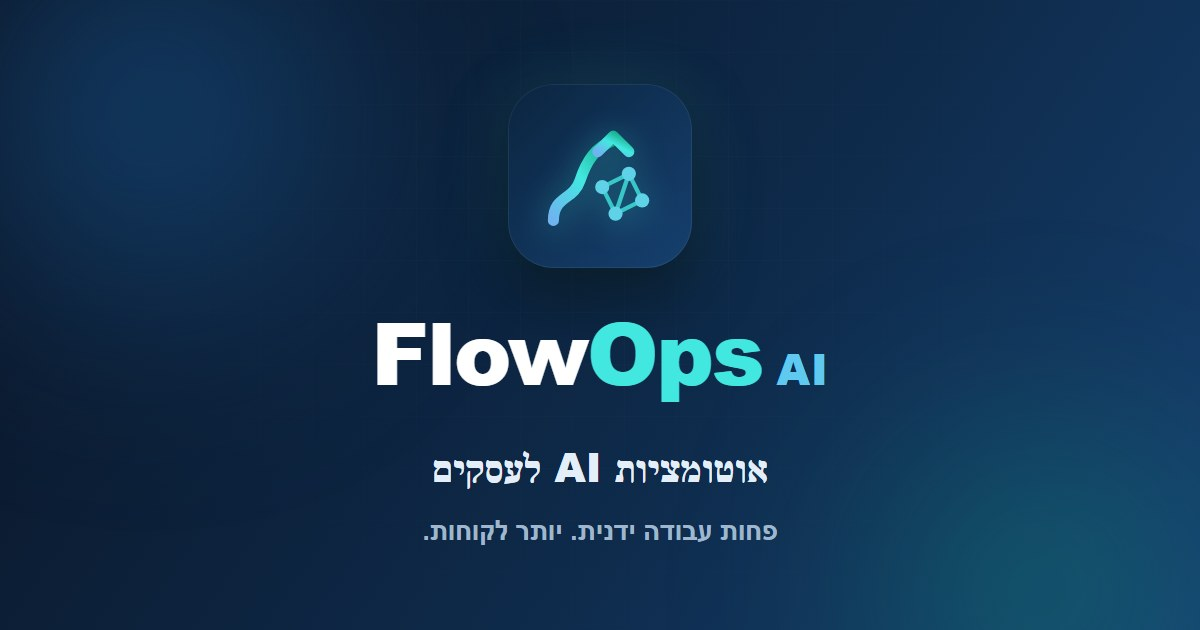
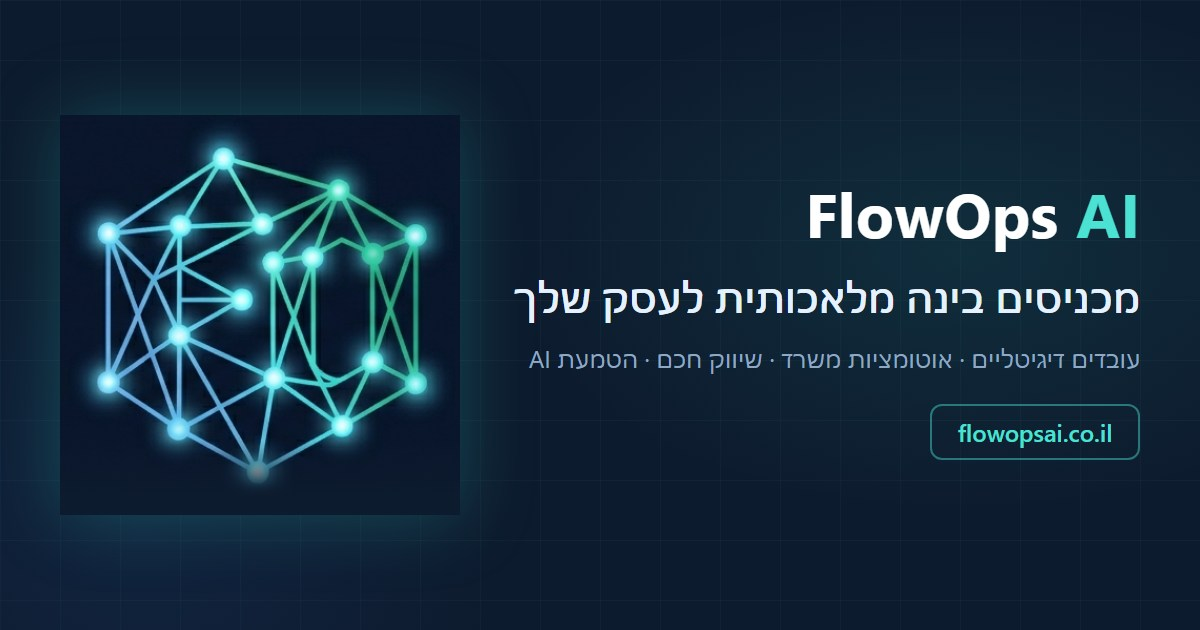
Reposition: FlowOps AI as full AI implementation for business
New umbrella message across all pages: digital workers, office
automation, digital presence and AI adoption. Chatbot demoted from
identity to one feature. New OG share image to match.

diff --git a/index.html b/index.html
@@ -3,19 +3,19 @@
 <head>
 <meta charset="UTF-8">
 <meta name="viewport" content="width=device-width, initial-scale=1.0">
-<title>FlowOps AI | אוטומציות AI לעסקים, חוסכים שעות, מרוויחים לקוחות</title>
-<meta name="description" content="FlowOps AI, בניית סוכני AI ואוטומציות לעסקים: מענה אוטומטי ללקוחות, חיבור CRM, דשבורדים. עשור ניסיון בניהול תפעול שמשולב ב-AI, מבינים עסק, לא רק קוד.">
-<meta property="og:title" content="FlowOps AI | אוטומציות AI לעסקים">
-<meta property="og:description" content="פחות עבודה ידנית. יותר לקוחות. סוכני AI ואוטומציות שעובדים בשבילכם 24/7.">
+<title>FlowOps AI | מכניסים בינה מלאכותית לעסק שלך — עובדים דיגיטליים, אוטומציות והטמעת AI</title>
+<meta name="description" content="FlowOps AI מכניסה בינה מלאכותית לעסק שלך: עובדים דיגיטליים שמבצעים עבודה מקצה לקצה, אוטומציות משרד, נוכחות דיגיטלית ושיווק, והטמעת AI בעסק. עשור ניסיון בניהול תפעול, מבינים עסק, לא רק קוד.">
+<meta property="og:title" content="FlowOps AI | מכניסים בינה מלאכותית לעסק שלך">
+<meta property="og:description" content="מהעובד הדיגיטלי הראשון ועד משרד שמנהל את עצמו. עובדים דיגיטליים, אוטומציות והטמעת AI לעסקים.">
 <meta property="og:type" content="website">
 <meta property="og:url" content="https://flowopsai.co.il/">
 <meta property="og:image" content="https://flowopsai.co.il/og-image-v2.jpg">
 <meta property="og:image:width" content="1200">
 <meta property="og:image:height" content="630">
-<meta property="og:image:alt" content="FlowOps AI, אוטומציות AI לעסקים">
+<meta property="og:image:alt" content="FlowOps AI, מכניסים בינה מלאכותית לעסק שלך">
 <meta name="twitter:card" content="summary_large_image">
-<meta name="twitter:title" content="FlowOps AI | אוטומציות AI לעסקים">
-<meta name="twitter:description" content="פחות עבודה ידנית. יותר לקוחות. סוכני AI ואוטומציות שעובדים בשבילכם 24/7.">
+<meta name="twitter:title" content="FlowOps AI | מכניסים בינה מלאכותית לעסק שלך">
+<meta name="twitter:description" content="מהעובד הדיגיטלי הראשון ועד משרד שמנהל את עצמו. עובדים דיגיטליים, אוטומציות והטמעת AI לעסקים.">
 <meta name="twitter:image" content="https://flowopsai.co.il/og-image-v2.jpg">
 <meta property="og:locale" content="he_IL">
 <meta property="og:site_name" content="FlowOps AI">
@@ -45,7 +45,7 @@ src="https://www.facebook.com/tr?id=YOUR_PIXEL_ID&ev=PageView&noscript=1"/></nos
   "@context":"https://schema.org",
   "@type":"ProfessionalService",
   "name":"FlowOps AI",
-  "description":"בניית סוכני AI ואוטומציות לעסקים, מענה אוטומטי ללקוחות, חיבור CRM, דשבורדים.",
+  "description":"הטמעת בינה מלאכותית בעסקים: עובדים דיגיטליים (סוכני AI), אוטומציות משרד, נוכחות דיגיטלית ושיווק, ייעוץ והדרכת AI.",
   "url":"https://flowopsai.co.il/",
   "telephone":"[phone redacted]",
   "email":"[email redacted]",
@@ -60,7 +60,7 @@ src="https://www.facebook.com/tr?id=YOUR_PIXEL_ID&ev=PageView&noscript=1"/></nos
   "@type":"FAQPage",
   "mainEntity":[
     {"@type":"Question","name":"כמה זמן לוקח להקים אוטומציה?","acceptedAnswer":{"@type":"Answer","text":"רוב הפרויקטים מוכנים תוך 1-3 שבועות, תלוי בהיקף. אוטומציה בודדת אפשר לפעמים להעמיד תוך ימים."}},
-    {"@type":"Question","name":"אני לא טכני, אצטרך לתחזק את זה לבד?","acceptedAnswer":{"@type":"Answer","text":"לא. אנחנו בונים, מפעילים ומדריכים אתכם לתפעול היומיומי. החודש הראשון כלול בחבילות הבוט, וממשיך בריטיינר חודשי מ-1,900 ₪, אפשר לבטל בכל רגע."}},
+    {"@type":"Question","name":"אני לא טכני, אצטרך לתחזק את זה לבד?","acceptedAnswer":{"@type":"Answer","text":"לא. אנחנו בונים, מפעילים ומדריכים אתכם לתפעול היומיומי. החודש הראשון כלול בחבילות העובד הדיגיטלי, וממשיך בריטיינר חודשי מ-1,900 ₪, אפשר לבטל בכל רגע."}},
     {"@type":"Question","name":"זה בטוח? מה עם המידע של הלקוחות שלי?","acceptedAnswer":{"@type":"Answer","text":"העבודה נעשית מול הכלים והחשבונות שלכם עם הרשאות מינימליות. המידע נשאר אצלכם, אנחנו לא שומרים נתוני לקוחות."}},
     {"@type":"Question","name":"באילו עסקים זה עובד הכי טוב?","acceptedAnswer":{"@type":"Answer","text":"כל עסק שמקבל פניות מלקוחות ומבצע תהליכים חוזרים: קליניקות, נדל\"ן, חנויות אונליין, משרדי שירות, סוכנויות ועוד."}}
   ]
@@ -639,11 +639,11 @@ src="https://www.facebook.com/tr?id=YOUR_PIXEL_ID&ev=PageView&noscript=1"/></nos
   <div class="wrap">
     <div class="hero-content" data-depth="0.05">
       <div class="badge"><span class="dot"></span> FlowOps AI · זמין לפרויקטים חדשים</div>
-      <h1><span class="h1-kw">אוטומציות AI לעסקים</span>פחות עבודה ידנית.<br><span>יותר לקוחות.</span></h1>
-      <p class="lead">FlowOps AI מפתחת לעסקים סוכני AI ואוטומציות שפועלים עבורכם מסביב לשעון, משיבים ללקוחות, מסננים לידים ומעדכנים מערכות. עשור ניסיון בניהול תפעול ושירות מאחורינו: קודם מבינים את העסק, ורק אז בונים את הטכנולוגיה.</p>
+      <h1><span class="h1-kw">הטמעת AI לעסקים</span>מכניסים בינה מלאכותית<br><span>לעסק שלך.</span></h1>
+      <p class="lead">מהעובד הדיגיטלי הראשון ועד משרד שמנהל את עצמו. FlowOps AI בונה לעסקים עובדים דיגיטליים שמבצעים עבודה מההתחלה עד הסוף, אוטומציות משרד, נוכחות דיגיטלית ושיווק, ומטמיעה AI בצוות שלכם. עשור ניסיון בניהול תפעול ושירות מאחורינו: קודם מבינים את העסק, ורק אז בונים את הטכנולוגיה.</p>
       <div class="hero-cta">
         <a href="#contact" class="btn">קבעו שיחת ייעוץ חינם</a>
-        <a href="demo.html" class="btn btn-ghost">נסו את הבוט בעצמכם — בלי הרשמה</a>
+        <a href="demo.html" class="btn btn-ghost">צפו בעובד דיגיטלי בפעולה — בלי הרשמה</a>
       </div>
       <div class="trust">
         <span><span class="ck">✓</span> <b>10 שנות</b> ניהול תפעול ושירות</span>
@@ -656,7 +656,7 @@ src="https://www.facebook.com/tr?id=YOUR_PIXEL_ID&ev=PageView&noscript=1"/></nos
         <div class="cm-head">
           <div class="cm-ava">🤖</div>
           <div class="cm-id">
-            <b>סוכן FlowOps</b>
+            <b>עובד דיגיטלי · FlowOps</b>
             <span class="cm-st"><i class="cm-on"></i> מחובר · עונה תוך שניות</span>
           </div>
         </div>
@@ -695,11 +695,11 @@ src="https://www.facebook.com/tr?id=YOUR_PIXEL_ID&ev=PageView&noscript=1"/></nos
   <div class="wrap">
     <div style="text-align:center"><span class="eyebrow reveal">האתגר</span></div>
     <h2 class="sec-title reveal">שלושה דברים שעולים לעסק שלכם כסף, בלי שתשימו לב</h2>
-    <p class="sec-sub reveal">אם אחד מהם מוכר לכם, אוטומציה אחת מחזירה את ההשקעה כבר בחודש הראשון</p>
+    <p class="sec-sub reveal">אם אחד מהם מוכר לכם, עובד דיגיטלי אחד מחזיר את ההשקעה כבר בחודש הראשון</p>
     <div class="pain-grid">
-      <div class="pain-card reveal"><h4>לידים שנופלים</h4><p>לקוח פונה, לא מקבל מענה מיידי, ועובר למתחרה. כל פנייה שנופלת היא הכנסה שנמחקת.</p></div>
+      <div class="pain-card reveal"><h4>כסף שכבר נמצא אצלכם בעסק</h4><p>לקוחות רדומים שלא חזרו, הצעות מחיר שלא קיבלו מעקב, ביטולים שמשאירים חורים ביומן. הכנסה שקיימת, ורק מחכה שמישהו ירים אותה.</p></div>
       <div class="pain-card reveal"><h4>שעות יקרות על עבודה ידנית</h4><p>העתקות, הקלדות ומעקבים ידניים גוזלים מכם ומהצוות שעות, על משימות שמערכת יכולה לבצע לבד.</p></div>
-      <div class="pain-card reveal"><h4>פניות מחוץ לשעות הפעילות</h4><p>לקוחות פונים בערב ובסופי שבוע. עד שחוזרים אליהם, העניין כבר התקרר.</p></div>
+      <div class="pain-card reveal"><h4>לידים ופניות שנופלים</h4><p>לקוחות פונים בערב ובסופי שבוע, לא מקבלים מענה, ועוברים למתחרה. כל פנייה שנופלת היא הכנסה שנמחקת.</p></div>
     </div>
   </div>
 </section>
@@ -707,15 +707,13 @@ src="https://www.facebook.com/tr?id=YOUR_PIXEL_ID&ev=PageView&noscript=1"/></nos
 <section id="services">
   <div class="wrap">
     <div style="text-align:center"><span class="eyebrow reveal">השירותים שלנו</span></div>
-    <h2 class="sec-title reveal">מה אנחנו בונים לכם</h2>
-    <p class="sec-sub reveal">פתרונות מוכנים שמתחילים לעבוד תוך שבועות, לא חודשים</p>
-    <div class="grid">
-      <div class="card reveal"><div class="ico"><svg viewBox="0 0 24 24" fill="none" stroke="currentColor" stroke-width="1.8" stroke-linecap="round" stroke-linejoin="round" aria-hidden="true" focusable="false"><path d="M21 15a2 2 0 0 1-2 2H7l-4 4V5a2 2 0 0 1 2-2h14a2 2 0 0 1 2 2z"/><path d="M7 9h10"/><path d="M7 13h6"/></svg></div><h3>סוכן FlowOps ללידים</h3><p>מקבל כל פנייה, עונה תוך שניות, מסנן לידים חמים ומעביר לצוות.</p><ul class="feat"><li>מענה מיידי 24/7</li><li>סינון לידים אוטומטי</li><li>עדכון צוות המכירות</li></ul></div>
-      <div class="card reveal"><div class="ico"><svg viewBox="0 0 24 24" fill="none" stroke="currentColor" stroke-width="1.8" stroke-linecap="round" stroke-linejoin="round" aria-hidden="true" focusable="false"><path d="M12 8V4H8"/><rect width="16" height="12" x="4" y="8" rx="2"/><path d="M2 14h2"/><path d="M20 14h2"/><path d="M15 13v2"/><path d="M9 13v2"/></svg></div><h3>סוכן FlowOps לשירות לקוחות</h3><p>מענה אוטומטי לשאלות נפוצות, תיאום תורים ומעקב הזמנות.</p><ul class="feat"><li>תשובות חכמות 24/7</li><li>תיאום פגישות אוטומטי</li><li>חוסך נציג שירות</li></ul></div>
-      <div class="card reveal"><div class="ico"><svg viewBox="0 0 24 24" fill="none" stroke="currentColor" stroke-width="1.8" stroke-linecap="round" stroke-linejoin="round" aria-hidden="true" focusable="false"><path d="M9 17H7A5 5 0 0 1 7 7h2"/><path d="M15 7h2a5 5 0 1 1 0 10h-2"/><line x1="8" x2="16" y1="12" y2="12"/></svg></div><h3>אוטומציית CRM</h3><p>חיבור אוטומטי בין טפסים, וואטסאפ ואתר ל-CRM.</p><ul class="feat"><li>אפס הקלדה ידנית</li><li>אפס טעויות אנוש</li><li>כל ליד מתועד</li></ul></div>
-      <div class="card reveal"><div class="ico"><svg viewBox="0 0 24 24" fill="none" stroke="currentColor" stroke-width="1.8" stroke-linecap="round" stroke-linejoin="round" aria-hidden="true" focusable="false"><line x1="12" x2="12" y1="20" y2="10"/><line x1="18" x2="18" y1="20" y2="4"/><line x1="6" x2="6" y1="20" y2="16"/></svg></div><h3>דשבורד ניהולי</h3><p>נתונים חיים, חישוב KPIs והתראות על חריגות בזמן אמת.</p><ul class="feat"><li>תמונת מצב מיידית</li><li>התראות חכמות</li><li>החלטות מבוססות נתונים</li></ul></div>
-      <div class="card reveal"><div class="ico"><svg viewBox="0 0 24 24" fill="none" stroke="currentColor" stroke-width="1.8" stroke-linecap="round" stroke-linejoin="round" aria-hidden="true" focusable="false"><rect width="8" height="8" x="3" y="3" rx="2"/><path d="M7 11v4a2 2 0 0 0 2 2h4"/><rect width="8" height="8" x="13" y="13" rx="2"/></svg></div><h3>אוטומציית תהליכים</h3><p>מזהים תהליך ידני שגוזל זמן ובונים אוטומציה שמחליפה אותו.</p><ul class="feat"><li>מיפוי התהליך</li><li>בנייה ב-n8n / Make</li><li>חיסכון של שעות</li></ul></div>
-      <div class="card reveal"><div class="ico"><svg viewBox="0 0 24 24" fill="none" stroke="currentColor" stroke-width="1.8" stroke-linecap="round" stroke-linejoin="round" aria-hidden="true" focusable="false"><circle cx="12" cy="12" r="10"/><polygon points="16.24 7.76 14.12 14.12 7.76 16.24 9.88 9.88"/></svg></div><h3>ייעוץ AI לעסק</h3><p>יום אבחון + מפת דרכים: מה כדאי להפוך לאוטומטי קודם.</p><ul class="feat"><li>אבחון מלא של העסק</li><li>מפת דרכים מתועדפת</li><li>חישוב ROI</li></ul></div>
+    <h2 class="sec-title reveal">ארבעה תחומים, מטרה אחת: עסק שרץ מעצמו</h2>
+    <p class="sec-sub reveal">בוט עונה להודעות. עובד דיגיטלי מבצע עבודה מההתחלה עד הסוף — ומכניס כסף שכבר נמצא אצלכם בעסק.</p>
+    <div class="grid" style="grid-template-columns:repeat(2,1fr);max-width:940px;margin:0 auto">
+      <div class="card reveal"><div class="ico"><svg viewBox="0 0 24 24" fill="none" stroke="currentColor" stroke-width="1.8" stroke-linecap="round" stroke-linejoin="round" aria-hidden="true" focusable="false"><path d="M12 8V4H8"/><rect width="16" height="12" x="4" y="8" rx="2"/><path d="M2 14h2"/><path d="M20 14h2"/><path d="M15 13v2"/><path d="M9 13v2"/></svg></div><h3>עובדים דיגיטליים</h3><p>סוכני AI אוטונומיים שמבצעים משימות שלמות בעסק, ומכניסים כסף שכבר נמצא אצלכם.</p><ul class="feat"><li>מחזיר לקוחות רדומים ומוכר להם שוב</li><li>ממלא ביטולים ביומן ומונע חורים בהכנסה</li><li>עוקב אוטומטית אחרי הצעות מחיר שנשלחו</li><li>מבקש ביקורות גוגל, ומנתב לקוח לא מרוצה בשקט אליכם</li><li>דוח מנכ"ל יומי ישירות לוואטסאפ</li><li>סוכני מחקר ומעקב מתחרים, וגם מענה אוטומטי ללקוחות</li></ul></div>
+      <div class="card reveal"><div class="ico"><svg viewBox="0 0 24 24" fill="none" stroke="currentColor" stroke-width="1.8" stroke-linecap="round" stroke-linejoin="round" aria-hidden="true" focusable="false"><path d="M9 17H7A5 5 0 0 1 7 7h2"/><path d="M15 7h2a5 5 0 1 1 0 10h-2"/><line x1="8" x2="16" y1="12" y2="12"/></svg></div><h3>אוטומציות משרד</h3><p>העבודה המשרדית החוזרת נעשית לבד, בלי העתקות ובלי טעויות אנוש.</p><ul class="feat"><li>מסמכים אוטומטיים: הצעות מחיר, חוזים וחשבוניות</li><li>ניהול מיילים חכם: מיון, תיוג וטיוטות מוכנות</li><li>סנכרון בין יומן, אקסל, וואטסאפ ומייל</li><li>דשבורדים עסקיים עם נתונים חיים והתראות</li></ul></div>
+      <div class="card reveal"><div class="ico"><svg viewBox="0 0 24 24" fill="none" stroke="currentColor" stroke-width="1.8" stroke-linecap="round" stroke-linejoin="round" aria-hidden="true" focusable="false"><line x1="12" x2="12" y1="20" y2="10"/><line x1="18" x2="18" y1="20" y2="4"/><line x1="6" x2="6" y1="20" y2="16"/></svg></div><h3>נוכחות דיגיטלית ושיווק</h3><p>נראות מקצועית ושיווק שרץ, עם קריאייטיב שנוצר ב-AI במהירות ובעלות שפויה.</p><ul class="feat"><li>דפי נחיתה ואתרים שמייצרים פניות</li><li>קמפיינים ממומנים עם סרטונים ומודעות AI</li><li>מכונת תוכן לרשתות החברתיות</li><li>מיתוג ושפה עיצובית לעסק</li></ul></div>
+      <div class="card reveal"><div class="ico"><svg viewBox="0 0 24 24" fill="none" stroke="currentColor" stroke-width="1.8" stroke-linecap="round" stroke-linejoin="round" aria-hidden="true" focusable="false"><circle cx="12" cy="12" r="10"/><polygon points="16.24 7.76 14.12 14.12 7.76 16.24 9.88 9.88"/></svg></div><h3>הטמעת AI בעסק</h3><p>לא רק בונים בשבילכם, מלמדים אתכם ואת הצוות לעבוד עם AI ביומיום.</p><ul class="feat"><li>ייעוץ ומיפוי תהליכים: מה משתלם לאוטמט קודם</li><li>הדרכת בעל העסק והעובדים</li><li>בניית סביבות עבודה ופרומפטים מותאמים לעסק</li><li>ליווי עד שה-AI באמת עובד אצלכם</li></ul></div>
     </div>
   </div>
 </section>
@@ -724,12 +722,12 @@ src="https://www.facebook.com/tr?id=YOUR_PIXEL_ID&ev=PageView&noscript=1"/></nos
   <div class="wrap">
     <div style="text-align:center"><span class="eyebrow reveal">דמו חי</span></div>
     <h2 class="sec-title reveal">תתנסו בעצמכם, עכשיו</h2>
-    <p class="sec-sub reveal">שני דמואים חיים שמראים בדיוק מה אנחנו בונים. בלי הרשמה, פשוט נכנסים.</p>
+    <p class="sec-sub reveal">שתי דוגמאות חיות לעובד דיגיטלי בפעולה, טעימה קטנה ממה שאנחנו בונים. בלי הרשמה, פשוט נכנסים.</p>
     <div class="grid" style="grid-template-columns:repeat(2,1fr);max-width:840px;margin:0 auto">
       <a class="card reveal" href="demo.html" style="display:flex;flex-direction:column;text-decoration:none">
         <div class="ico"><svg viewBox="0 0 24 24" fill="none" stroke="currentColor" stroke-width="1.8" stroke-linecap="round" stroke-linejoin="round" aria-hidden="true" focusable="false"><path d="M21 11.5a8.5 8.5 0 0 1-12.5 7.5L3 21l2-5.5A8.5 8.5 0 1 1 21 11.5z"/></svg></div>
-        <h3>סוכן FlowOps — בוט וואטסאפ חכם</h3>
-        <p>שלחו הודעה ותראו איך הוא עונה ללקוחות, קובע תורים ולוכד לידים, מסביב לשעון.</p>
+        <h3>עובד דיגיטלי בצ'אט — דוגמה חיה</h3>
+        <p>שלחו הודעה ותראו איך עובד דיגיטלי עונה ללקוחות, קובע תורים ולוכד לידים, מסביב לשעון. וזה רק הפיצ'ר הבסיסי שלו.</p>
         <span class="btn" style="margin-top:auto;align-self:flex-start">פתח דמו צ'אט ←</span>
       </a>
       <a class="card reveal" href="demo-crm.html" style="display:flex;flex-direction:column;text-decoration:none">
@@ -746,7 +744,7 @@ src="https://www.facebook.com/tr?id=YOUR_PIXEL_ID&ev=PageView&noscript=1"/></nos
   <div class="wrap">
     <div style="text-align:center"><span class="eyebrow reveal">הבידול</span></div>
     <h2 class="sec-title reveal">למה אנחנו, ולא מישהו אחר</h2>
-    <p class="sec-sub reveal">רוב מי שבונה אוטומציות הוא טכנולוג שלא מבין עסק, או יועץ שלא יודע לבנות. אנחנו שילוב של שניהם.</p>
+    <p class="sec-sub reveal">השוק מלא בבוטים שעונים להודעות. עובד דיגיטלי מבצע עבודה מההתחלה עד הסוף. ומי שבונה אותו צריך להבין עסק, לא רק קוד.</p>
     <div class="diff-grid">
       <div class="diff-card reveal"><div class="di"><svg viewBox="0 0 24 24" fill="none" stroke="currentColor" stroke-width="1.7" stroke-linecap="round" stroke-linejoin="round" aria-hidden="true" focusable="false"><path d="M12 5a3 3 0 1 0-5.997.125 4 4 0 0 0-2.526 5.77 4 4 0 0 0 .556 6.588A4 4 0 1 0 12 18Z"/><path d="M12 5a3 3 0 1 1 5.997.125 4 4 0 0 1 2.526 5.77 4 4 0 0 1-.556 6.588A4 4 0 1 1 12 18Z"/></svg></div><div><h4>מבינים עסק, לא רק קוד</h4><p>10 שנות ניהול תפעול, מוקדים ושירות. מתכנת רגיל בונה מה שביקשתם. אנחנו בונים מה שהעסק שלכם באמת צריך.</p></div></div>
       <div class="diff-card reveal"><div class="di"><svg viewBox="0 0 24 24" fill="none" stroke="currentColor" stroke-width="1.7" stroke-linecap="round" stroke-linejoin="round" aria-hidden="true" focusable="false"><circle cx="12" cy="12" r="10"/><circle cx="12" cy="12" r="6"/><circle cx="12" cy="12" r="2"/></svg></div><div><h4>פתרון מקצה לקצה</h4><p>לא צריך לתאם בין מתכנת, מעצב ואיש שיווק. הכל ממקור אחד, אפיון, בנייה, הרצה והדרכה.</p></div></div>
@@ -784,8 +782,8 @@ src="https://www.facebook.com/tr?id=YOUR_PIXEL_ID&ev=PageView&noscript=1"/></nos
 <section class="proof">
   <div class="wrap">
     <div style="text-align:center"><span class="eyebrow reveal">התוצאה</span></div>
-    <h2 class="sec-title reveal">מה אוטומציה נכונה עושה לעסק</h2>
-    <p class="sec-sub reveal">הערך שאוטומציה חכמה יכולה לייצר לעסק</p>
+    <h2 class="sec-title reveal">מה AI שמוטמע נכון עושה לעסק</h2>
+    <p class="sec-sub reveal">הערך שעובדים דיגיטליים ואוטומציות חכמות יכולים לייצר לעסק</p>
     <div class="metrics">
       <div class="metric reveal"><div class="big">עד 15</div><p>שעות עבודה שאפשר לחסוך בשבוע</p></div>
       <div class="metric reveal"><div class="big">24/7</div><p>מענה אוטומטי לכל פנייה, גם בלילה ובסופ"ש</p></div>
@@ -807,9 +805,9 @@ src="https://www.facebook.com/tr?id=YOUR_PIXEL_ID&ev=PageView&noscript=1"/></nos
         <div class="ba">
           <div class="row before"><span class="lbl">לפני</span><p>פניות מטופלים מגיעות בערב ובסופ"ש כשהמזכירה לא זמינה, ומטופלים פונים למרפאה אחרת.</p></div>
           <div class="ar"><svg viewBox="0 0 24 24" fill="none" stroke="currentColor" stroke-width="2.2" stroke-linecap="round" stroke-linejoin="round" aria-hidden="true"><path d="M12 5v14M5 12l7 7 7-7"/></svg></div>
-          <div class="row after"><span class="lbl">אחרי</span><p>סוכן FlowOps עונה תוך שניות בכל שעה, משיב על שאלות נפוצות ומתאם תורים ישירות ליומן.</p></div>
+          <div class="row after"><span class="lbl">אחרי</span><p>עובד דיגיטלי עונה תוך שניות בכל שעה, מתאם תורים ישירות ליומן, וממלא ביטולים מרשימת ההמתנה.</p></div>
         </div>
-        <div class="built">מה בונים במקרה כזה: <b>סוכן FlowOps + חיבור ליומן התורים</b></div>
+        <div class="built">מה בונים במקרה כזה: <b>עובד דיגיטלי + חיבור ליומן התורים</b></div>
       </div>
 
       <div class="scard reveal">
@@ -829,9 +827,9 @@ src="https://www.facebook.com/tr?id=YOUR_PIXEL_ID&ev=PageView&noscript=1"/></nos
         <div class="ba">
           <div class="row before"><span class="lbl">לפני</span><p>אותן שאלות חוזרות על משלוח, החזרות וסטטוס הזמנה גוזלות מהצוות שעות בכל יום.</p></div>
           <div class="ar"><svg viewBox="0 0 24 24" fill="none" stroke="currentColor" stroke-width="2.2" stroke-linecap="round" stroke-linejoin="round" aria-hidden="true"><path d="M12 5v14M5 12l7 7 7-7"/></svg></div>
-          <div class="row after"><span class="lbl">אחרי</span><p>סוכן FlowOps עונה 24/7 על השאלות הנפוצות ומאפשר ללקוח לבדוק סטטוס הזמנה לבד, מתי שנוח לו.</p></div>
+          <div class="row after"><span class="lbl">אחרי</span><p>עובד דיגיטלי עונה 24/7 על השאלות הנפוצות, מעדכן סטטוס הזמנה לבד, ומבקש ביקורת מלקוחות מרוצים.</p></div>
         </div>
-        <div class="built">מה בונים במקרה כזה: <b>סוכן FlowOps + חיבור למערכת ההזמנות</b></div>
+        <div class="built">מה בונים במקרה כזה: <b>עובד דיגיטלי + חיבור למערכת ההזמנות</b></div>
       </div>
 
     </div>
@@ -881,7 +879,7 @@ src="https://www.facebook.com/tr?id=YOUR_PIXEL_ID&ev=PageView&noscript=1"/></nos
         <div class="roi">מחליף שעות עבודה ידנית כל חודש</div>
         <div class="deliv"><svg viewBox="0 0 24 24" fill="none" stroke="currentColor" stroke-width="2" stroke-linecap="round" stroke-linejoin="round"><circle cx="12" cy="12" r="9"/><path d="M12 7v5l3 2"/></svg> אספקה: 3-5 ימי עבודה</div>
         <ul>
-          <li><b>אוטומציה אחת</b> לבחירתכם, לדוגמה: מענה אוטומטי בוואטסאפ ללקוחות</li>
+          <li><b>אוטומציה אחת</b> לבחירתכם, לדוגמה: מעקב אוטומטי אחרי הצעות מחיר, או מענה אוטומטי בוואטסאפ</li>
           <li>חיבור למערכת אחת שלכם (וואטסאפ / טופס / גיליון)</li>
           <li>אפיון הצורך + בנייה + הרצה</li>
           <li>הדרכה אישית + שבוע תמיכה</li>
@@ -896,7 +894,7 @@ src="https://www.facebook.com/tr?id=YOUR_PIXEL_ID&ev=PageView&noscript=1"/></nos
         <div class="roi">ליד אחד שנשמר מחזיר חלק נכבד מההשקעה</div>
         <div class="deliv"><svg viewBox="0 0 24 24" fill="none" stroke="currentColor" stroke-width="2" stroke-linecap="round" stroke-linejoin="round"><circle cx="12" cy="12" r="9"/><path d="M12 7v5l3 2"/></svg> אספקה: 1-2 שבועות</div>
         <ul>
-          <li><b>סוכן FlowOps מלא</b>, עונה ללקוחות, מסנן לידים ומעביר לצוות</li>
+          <li><b>עובד דיגיטלי מלא</b>, מחזיר לקוחות רדומים, עוקב אחרי הצעות מחיר, עונה ללקוחות ומסנן לידים</li>
           <li><b>חיבור ל-CRM</b>, כל ליד נשמר אוטומטית, בלי הקלדה</li>
           <li><b>דשבורד</b> לראות כמה פניות, מאיפה ומה הסטטוס</li>
           <li>הדרכת צוות + חודש תמיכה מלא</li>
@@ -910,7 +908,7 @@ src="https://www.facebook.com/tr?id=YOUR_PIXEL_ID&ev=PageView&noscript=1"/></nos
         <div class="roi">מערכת תפעול שלמה במקום כמה משרות</div>
         <div class="deliv"><svg viewBox="0 0 24 24" fill="none" stroke="currentColor" stroke-width="2" stroke-linecap="round" stroke-linejoin="round"><circle cx="12" cy="12" r="9"/><path d="M12 7v5l3 2"/></svg> אספקה: 2-3 שבועות</div>
         <ul>
-          <li><b>כמה אוטומציות שעובדות יחד</b>, וואטסאפ + CRM + מיילים + דוחות</li>
+          <li><b>כמה עובדים דיגיטליים ואוטומציות שעובדים יחד</b>, לקוחות + CRM + מיילים + מסמכים + דוח מנכ"ל יומי</li>
           <li>כל החיבורים בין המערכות שלכם</li>
           <li><b>דשבורד מתקדם</b> + התראות חכמות על חריגות</li>
           <li>ליווי צמוד והדרכת צוות, חודש מלא</li>
@@ -925,7 +923,7 @@ src="https://www.facebook.com/tr?id=YOUR_PIXEL_ID&ev=PageView&noscript=1"/></nos
       מחירי השקה ל-5 הלקוחות הבאים בלבד, בתמורה להמלצה בסיום הפרויקט. לאחר מכן המחירון מתעדכן.
     </p>
     <div class="extra">
-      <div class="ecard reveal"><div><h4><svg viewBox="0 0 24 24" fill="none" stroke="currentColor" stroke-width="1.8" stroke-linecap="round" stroke-linejoin="round" aria-hidden="true" focusable="false"><path d="M14.7 6.3a1 1 0 0 0 0 1.4l1.6 1.6a1 1 0 0 0 1.4 0l3.77-3.77a6 6 0 0 1-7.94 7.94l-6.91 6.91a2.12 2.12 0 0 1-3-3l6.91-6.91a6 6 0 0 1 7.94-7.94l-3.76 3.76z"/></svg> ריטיינר חודשי</h4><p>ניטור הבוט 24/7 עם התראה מיידית על תקלה, טיפול בתוך יום עסקים, עד 3 שעות שינויים בחודש, ודוח חודשי, כמה פניות נענו, כמה לידים נשמרו וכמה שעות נחסכו לכם. בחבילות בוט: החודש הראשון כלול.</p></div><div class="pr">מ-1,900 ₪/חודש</div></div>
+      <div class="ecard reveal"><div><h4><svg viewBox="0 0 24 24" fill="none" stroke="currentColor" stroke-width="1.8" stroke-linecap="round" stroke-linejoin="round" aria-hidden="true" focusable="false"><path d="M14.7 6.3a1 1 0 0 0 0 1.4l1.6 1.6a1 1 0 0 0 1.4 0l3.77-3.77a6 6 0 0 1-7.94 7.94l-6.91 6.91a2.12 2.12 0 0 1-3-3l6.91-6.91a6 6 0 0 1 7.94-7.94l-3.76 3.76z"/></svg> ריטיינר חודשי</h4><p>ניטור העובד הדיגיטלי 24/7 עם התראה מיידית על תקלה, טיפול בתוך יום עסקים, עד 3 שעות שינויים בחודש, ודוח חודשי, כמה פניות טופלו, כמה לקוחות חזרו וכמה שעות נחסכו לכם. בחבילות עובד דיגיטלי: החודש הראשון כלול.</p></div><div class="pr">מ-1,900 ₪/חודש</div></div>
       <div class="ecard reveal"><div><h4><svg viewBox="0 0 24 24" fill="none" stroke="currentColor" stroke-width="1.8" stroke-linecap="round" stroke-linejoin="round" aria-hidden="true" focusable="false"><path d="M7.9 20A9 [phone redacted].1L2 22z"/></svg> לא בטוחים מה מתאים?</h4><p>נדבר 20 דקות ונבנה לכם הצעה מדויקת, בחינם</p></div><a href="#contact" class="pr" style="color:var(--blue)">בואו נדבר ←</a></div>
     </div>
   </div>
@@ -950,7 +948,7 @@ src="https://www.facebook.com/tr?id=YOUR_PIXEL_ID&ev=PageView&noscript=1"/></nos
     <p class="sec-sub reveal">לפני שמתחילים</p>
     <div class="reveal">
       <div class="faq-item"><div class="faq-q">כמה זמן לוקח להקים אוטומציה?</div><div class="faq-a">רוב הפרויקטים מוכנים תוך 1-3 שבועות, תלוי בהיקף. אוטומציה בודדת אפשר לפעמים להעמיד תוך ימים.</div></div>
-      <div class="faq-item"><div class="faq-q">אני לא טכני, אצטרך לתחזק את זה לבד?</div><div class="faq-a">לא. אנחנו בונים, מפעילים ומדריכים אתכם לתפעול היומיומי הפשוט. החודש הראשון כלול בחבילות הבוט, וממשיך בריטיינר חודשי מ-1,900 ₪, אפשר לבטל בכל רגע.</div></div>
+      <div class="faq-item"><div class="faq-q">אני לא טכני, אצטרך לתחזק את זה לבד?</div><div class="faq-a">לא. אנחנו בונים, מפעילים ומדריכים אתכם לתפעול היומיומי הפשוט. החודש הראשון כלול בחבילות העובד הדיגיטלי, וממשיך בריטיינר חודשי מ-1,900 ₪, אפשר לבטל בכל רגע.</div></div>
       <div class="faq-item"><div class="faq-q">זה בטוח? מה עם המידע של הלקוחות שלי?</div><div class="faq-a">העבודה נעשית מול הכלים והחשבונות שלכם, עם הרשאות מינימליות. המידע נשאר אצלכם, אנחנו לא שומרים נתוני לקוחות.</div></div>
       <div class="faq-item"><div class="faq-q">מה אם זה לא יתאים לעסק שלי?</div><div class="faq-a">בשביל זה יש שיחת אפיון חינם ופיילוט קטן. מתחילים בקטן, מוכיחים ערך, ורק אז מרחיבים, כדי לצמצם את הסיכון למינימום.</div></div>
       <div class="faq-item"><div class="faq-q">למה לא פשוט לשכור מתכנת זול?</div><div class="faq-a">מתכנת בונה מה שאמרתם, בלי להבין אם זה באמת מה שהעסק צריך. אנחנו מגיעים מ-10 שנות ניהול תפעול, אז קודם מבינים את הבעיה ואז בונים. זה ההבדל בין כלי שעובד לכלי שמשנה לכם את העסק.</div></div>
@@ -983,8 +981,8 @@ src="https://www.facebook.com/tr?id=YOUR_PIXEL_ID&ev=PageView&noscript=1"/></nos
 
 <section class="final" id="contact">
   <div class="wrap">
-    <h2 class="reveal">מוכנים לחסוך שעות עבודה?</h2>
-    <p class="reveal">שיחת ייעוץ ראשונה חינם, נראה יחד איפה AI יכול לעזור לעסק שלכם. בלי התחייבות.</p>
+    <h2 class="reveal">מוכנים להכניס בינה מלאכותית לעסק?</h2>
+    <p class="reveal">שיחת ייעוץ ראשונה חינם, נראה יחד מי יהיה העובד הדיגיטלי הראשון שלכם ואיפה AI ישתלם הכי מהר. בלי התחייבות.</p>
     <div class="contact-grid reveal">
       <div class="contact-col">
         <div class="form-thanks" id="formThanks" role="status" hidden>
@@ -1031,7 +1029,7 @@ src="https://www.facebook.com/tr?id=YOUR_PIXEL_ID&ev=PageView&noscript=1"/></nos
 
 <footer>
   <div class="wrap">
-    <div><b>FlowOps AI</b> · אוטומציות AI לעסקים · נתניה והשרון · 054-8080657 · [email redacted]</div>
+    <div><b>FlowOps AI</b> · מכניסים בינה מלאכותית לעסק שלך · נתניה והשרון · 054-8080657 · [email redacted]</div>
     <div style="margin-top:14px;font-size:.92rem">
       <a href="ai-automation-call-center.html" style="color:#9FB6CC">אוטומציה למוקד שירות</a>
       <span style="opacity:.5;margin:0 8px">·</span>

diff --git a/demo.html b/demo.html
@@ -2,10 +2,10 @@
 <html lang="he" dir="rtl"><head>
 <meta charset="UTF-8">
 <meta name="viewport" content="width=device-width,initial-scale=1">
-<title>דמו חי | סוכן FlowOps — בוט וואטסאפ חכם לעסק</title>
-<meta name="description" content="דמו חי של סוכן FlowOps — בוט וואטסאפ חכם לעסק: עונה ללקוחות 24/7, קובע תורים, עונה על מחירים ולוכד לידים. מבית FlowOps AI.">
-<meta property="og:title" content="דמו חי — סוכן FlowOps | בוט וואטסאפ חכם">
-<meta property="og:description" content="שלחו הודעה ותראו איך בוט חכם עונה ללקוחות 24/7, קובע תורים ולוכד לידים.">
+<title>דמו חי | עובד דיגיטלי של FlowOps בפעולה</title>
+<meta name="description" content="דוגמה חיה לעובד דיגיטלי של FlowOps AI: עונה ללקוחות 24/7, קובע תורים, עונה על מחירים ולוכד לידים. וזה רק חלק קטן ממה שעובד דיגיטלי יודע לעשות.">
+<meta property="og:title" content="דמו חי — עובד דיגיטלי של FlowOps בפעולה">
+<meta property="og:description" content="שלחו הודעה ותראו איך עובד דיגיטלי עונה ללקוחות 24/7, קובע תורים ולוכד לידים.">
 <meta property="og:image" content="https://flowopsai.co.il/og-image-v2.jpg">
 <meta property="og:type" content="website">
 <meta property="og:url" content="https://flowopsai.co.il/demo.html">
@@ -82,7 +82,7 @@
 <div class="phone">
   <div class="top">
     <div class="av">F</div>
-    <div class="who"><b>סוכן FlowOps</b><span class="on">מקוון · עונה תוך שניות</span></div>
+    <div class="who"><b>העובד הדיגיטלי של FlowOps</b><span class="on">מקוון · עונה תוך שניות</span></div>
     <a href="/" style="color:#fff;text-decoration:none;font-weight:700;font-size:12px;padding:7px 12px;margin-inline-start:auto;border-radius:20px;border:1px solid rgba(255,255,255,.35);white-space:nowrap">← לאתר</a>
     <div class="sp">
       <svg viewBox="0 0 24 24"><path d="M17 10.5V7a1 1 0 0 0-1-1H4a1 1 0 0 0-1 1v10a1 1 0 0 0 1 1h12a1 1 0 0 0 1-1v-3.5l4 4v-11l-4 4z"/></svg>
@@ -91,7 +91,7 @@
   </div>
 
   <div class="chat" id="chat">
-    <div class="sysline">🔒 ההודעות מוצפנות. זהו דמו חי של סוכן FlowOps — בוט וואטסאפ חכם לעסק.</div>
+    <div class="sysline">🔒 ההודעות מוצפנות. זוהי דוגמה חיה לעובד דיגיטלי של FlowOps, כאן הוא עונה ללקוחות, ובעסק אמיתי הוא גם מחזיר לקוחות וממלא יומן.</div>
     <div class="typing" id="typing"><i></i><i></i><i></i></div>
   </div>
 
@@ -105,7 +105,7 @@
   </div>
 
   <div class="cta" id="cta">
-    <div><b>אהבתם? 🤖 זה יכול להיות העסק שלכם</b><span>בוט חכם כזה, מותאם אישית</span></div>
+    <div><b>אהבתם? 🤖 זה יכול להיות העסק שלכם</b><span>עובד דיגיטלי כזה, מותאם אישית</span></div>
     <a href="https://wa.me/972548080657?text=ראיתי%20את%20הדמו%20ואשמח%20לשמוע%20עוד" target="_blank" rel="noopener">דברו איתנו</a>
     <a href="demo-crm.html" style="background:rgba(255,255,255,.12);color:#fff;text-decoration:none;font-weight:800;font-size:12px;padding:9px 12px;border-radius:20px;border:1px solid rgba(255,255,255,.35);white-space:nowrap">מוקד בקרה</a>
     <button class="x" onclick="document.getElementById('cta').classList.remove('show')">✕</button>

diff --git a/ai-automation-call-center.html b/ai-automation-call-center.html
@@ -88,7 +88,7 @@ src="https://www.facebook.com/tr?id=YOUR_PIXEL_ID&ev=PageView&noscript=1"/></nos
 
     <h2>מה אפשר לאוטמט במוקד שירות</h2>
     <div class="ucase">
-      <div class="uc"><h3>מענה ראשוני אוטומטי</h3><p>סוכן FlowOps — בוט וואטסאפ חכם שמבין שאלות בשפה חופשית, עונה לשאלות נפוצות בוואטסאפ ובאתר, ומעביר לנציג רק כשצריך.</p></div>
+      <div class="uc"><h3>עובד דיגיטלי במוקד</h3><p>סוכן AI שמבין שאלות בשפה חופשית, עונה לשאלות נפוצות בוואטסאפ ובאתר, פותח פנייה, מעדכן את הלקוח, ומעביר לנציג רק את מה שבאמת דורש אדם.</p></div>
       <div class="uc"><h3>מיון וניתוב פניות</h3><p>כל פנייה שמגיעה מסווגת לפי נושא ודחיפות ומנותבת לנציג או למחלקה הנכונה אוטומטית.</p></div>
       <div class="uc"><h3>סיכום שיחות אוטומטי</h3><p>בסוף כל שיחה ה-AI מפיק סיכום מסודר ומעדכן את ה-CRM, בלי שהנציג יקליד מילה.</p></div>
       <div class="uc"><h3>מעקב ושימור לקוחות</h3><p>זיהוי לקוחות בסיכון נטישה ושליחת פנייה יזומה, או תזכורות אוטומטיות לחידוש ולחזרה ללקוח.</p></div>
@@ -122,7 +122,7 @@ src="https://www.facebook.com/tr?id=YOUR_PIXEL_ID&ev=PageView&noscript=1"/></nos
     <h2>בואו נראה מה אפשר לאוטמט אצלכם</h2>
     <p>בשיחת ייעוץ קצרה וחינמית נמפה תהליך אחד שגוזל לכם הכי הרבה זמן, ונראה כמה מהר אפשר לאוטמט אותו, בלי שום התחייבות.</p>
     <a href="https://wa.me/972548080657?text=%D7%94%D7%99%D7%99,%20%D7%90%D7%A9%D7%9E%D7%97%20%D7%9C%D7%A9%D7%99%D7%97%D7%AA%20%D7%99%D7%99%D7%A2%D7%95%D7%A5" class="btn">דברו איתנו בוואטסאפ</a>
-    <p style="margin-top:14px">מעדיפים קודם לראות את זה עובד? <a href="/demo.html">נסו דמו חי של הבוט — בלי הרשמה</a> · או <a href="/#contact">השאירו פרטים ואחזור אליכם</a></p>
+    <p style="margin-top:14px">מעדיפים קודם לראות את זה עובד? <a href="/demo.html">דוגמה חיה לעובד דיגיטלי — בלי הרשמה</a> · או <a href="/#contact">השאירו פרטים ואחזור אליכם</a></p>
   </div>
 </section>
 
@@ -141,7 +141,7 @@ src="https://www.facebook.com/tr?id=YOUR_PIXEL_ID&ev=PageView&noscript=1"/></nos
 
 <footer>
   <div class="wrap">
-    <div><b>FlowOps AI</b> · אוטומציות AI לעסקים · נתניה והשרון · 054-8080657 · [email redacted]</div>
+    <div><b>FlowOps AI</b> · מכניסים בינה מלאכותית לעסק שלך · נתניה והשרון · 054-8080657 · [email redacted]</div>
     <div style="margin-top:14px;font-size:.92rem">
       <a href="/demo.html" style="color:#9FB6CC">דמו חי</a>
       <span style="opacity:.5;margin:0 8px">·</span>

diff --git a/ai-automation-small-business.html b/ai-automation-small-business.html
@@ -88,7 +88,7 @@ src="https://www.facebook.com/tr?id=YOUR_PIXEL_ID&ev=PageView&noscript=1"/></nos
 
     <h2>מה אפשר לאוטמט בעסק קטן</h2>
     <div class="ucase">
-      <div class="uc"><h3>מענה אוטומטי לפניות</h3><p>סוכן FlowOps — בוט וואטסאפ חכם. לקוח שכותב בוואטסאפ או באתר מקבל מענה מיידי לשאלות נפוצות, ואתם מקבלים רק את מה שדורש אתכם.</p></div>
+      <div class="uc"><h3>עובד דיגיטלי ראשון לעסק</h3><p>סוכן AI שמחזיר לקוחות רדומים, עוקב אחרי הצעות מחיר וממלא ביטולים ביומן. וכן, הוא גם עונה מיידית לכל פנייה בוואטסאפ ובאתר, אבל זה רק הצד הקטן שלו.</p></div>
       <div class="uc"><h3>תיאום פגישות אוטומטי</h3><p>הלקוח קובע תור בעצמו לפי הזמינות שלכם, מקבל תזכורות, ופחות ביטולים ברגע האחרון.</p></div>
       <div class="uc"><h3>מעקב לידים</h3><p>כל פנייה נכנסת אוטומטית לרשימה מסודרת עם מעקב, כך ששום לקוח פוטנציאלי לא נשכח.</p></div>
       <div class="uc"><h3>חשבוניות ודוחות</h3><p>הפקה ושליחה אוטומטית של מסמכים, וסיכומים שבועיים שמגיעים אליכם מוכנים, בלי להרכיב אותם ידנית.</p></div>
@@ -122,7 +122,7 @@ src="https://www.facebook.com/tr?id=YOUR_PIXEL_ID&ev=PageView&noscript=1"/></nos
     <h2>בואו נמצא לכם את האוטומציה הראשונה</h2>
     <p>בשיחת ייעוץ קצרה וחינמית נזהה יחד תהליך אחד שגוזל לכם הכי הרבה זמן, ונראה כמה מהר אפשר לאוטמט אותו, בלי שום התחייבות.</p>
     <a href="https://wa.me/972548080657?text=%D7%94%D7%99%D7%99,%20%D7%90%D7%A9%D7%9E%D7%97%20%D7%9C%D7%A9%D7%99%D7%97%D7%AA%20%D7%99%D7%99%D7%A2%D7%95%D7%A5" class="btn">דברו איתנו בוואטסאפ</a>
-    <p style="margin-top:14px">מעדיפים קודם לראות את זה עובד? <a href="/demo.html">נסו דמו חי של הבוט — בלי הרשמה</a> · או <a href="/#contact">השאירו פרטים ואחזור אליכם</a></p>
+    <p style="margin-top:14px">מעדיפים קודם לראות את זה עובד? <a href="/demo.html">דוגמה חיה לעובד דיגיטלי — בלי הרשמה</a> · או <a href="/#contact">השאירו פרטים ואחזור אליכם</a></p>
   </div>
 </section>
 
@@ -141,7 +141,7 @@ src="https://www.facebook.com/tr?id=YOUR_PIXEL_ID&ev=PageView&noscript=1"/></nos
 
 <footer>
   <div class="wrap">
-    <div><b>FlowOps AI</b> · אוטומציות AI לעסקים · נתניה והשרון · 054-8080657 · [email redacted]</div>
+    <div><b>FlowOps AI</b> · מכניסים בינה מלאכותית לעסק שלך · נתניה והשרון · 054-8080657 · [email redacted]</div>
     <div style="margin-top:14px;font-size:.92rem">
       <a href="/demo.html" style="color:#9FB6CC">דמו חי</a>
       <span style="opacity:.5;margin:0 8px">·</span>

diff --git a/ai-process-consulting.html b/ai-process-consulting.html
@@ -91,7 +91,7 @@ src="https://www.facebook.com/tr?id=YOUR_PIXEL_ID&ev=PageView&noscript=1"/></nos
       <div class="uc"><h3>מיפוי תהליכים</h3><p>נשב יחד ונבין איך העסק עובד בפועל: מאיפה מגיעות הפניות, איפה נתקעים, ומה גוזל הכי הרבה זמן.</p></div>
       <div class="uc"><h3>זיהוי הזדמנויות</h3><p>נזהה אילו תהליכים בשלים לאוטומציה או ל-AI, ואילו עדיף להשאיר אנושיים, בלי אשליות.</p></div>
       <div class="uc"><h3>סדר עדיפויות לפי החזר</h3><p>נדרג את ההזדמנויות לפי השפעה מול מאמץ, כדי שתתחילו מהמהלך עם ההחזר המהיר ביותר.</p></div>
-      <div class="uc"><h3>תוכנית יישום</h3><p>תקבלו מפת דרכים מעשית, שתוכלו ליישם איתנו או באופן עצמאי, הבחירה שלכם.</p></div>
+      <div class="uc"><h3>תוכנית יישום והדרכה</h3><p>תקבלו מפת דרכים מעשית, ובמידת הצורך גם הדרכה לכם ולעובדים, כולל סביבות עבודה ופרומפטים מותאמים לעסק. ליישם איתנו או לבד, הבחירה שלכם.</p></div>
     </div>
 
     <h2>למי זה מתאים</h2>
@@ -121,7 +121,7 @@ src="https://www.facebook.com/tr?id=YOUR_PIXEL_ID&ev=PageView&noscript=1"/></nos
     <h2>נתחיל מתמונת מצב ברורה</h2>
     <p>בשיחת ייעוץ קצרה וחינמית נסתכל יחד על העסק שלכם ונזהה את ההזדמנות הראשונה שכדאי לכם לתפוס, בלי שום התחייבות.</p>
     <a href="https://wa.me/972548080657?text=%D7%94%D7%99%D7%99,%20%D7%90%D7%A9%D7%9E%D7%97%20%D7%9C%D7%A9%D7%99%D7%97%D7%AA%20%D7%99%D7%99%D7%A2%D7%95%D7%A5" class="btn">דברו איתנו בוואטסאפ</a>
-    <p style="margin-top:14px">מעדיפים קודם לראות את זה עובד? <a href="/demo.html">נסו דמו חי של הבוט — בלי הרשמה</a> · או <a href="/#contact">השאירו פרטים ואחזור אליכם</a></p>
+    <p style="margin-top:14px">מעדיפים קודם לראות את זה עובד? <a href="/demo.html">דוגמה חיה לעובד דיגיטלי — בלי הרשמה</a> · או <a href="/#contact">השאירו פרטים ואחזור אליכם</a></p>
   </div>
 </section>
 
@@ -140,7 +140,7 @@ src="https://www.facebook.com/tr?id=YOUR_PIXEL_ID&ev=PageView&noscript=1"/></nos
 
 <footer>
   <div class="wrap">
-    <div><b>FlowOps AI</b> · אוטומציות AI לעסקים · נתניה והשרון · 054-8080657 · [email redacted]</div>
+    <div><b>FlowOps AI</b> · מכניסים בינה מלאכותית לעסק שלך · נתניה והשרון · 054-8080657 · [email redacted]</div>
     <div style="margin-top:14px;font-size:.92rem">
       <a href="/demo.html" style="color:#9FB6CC">דמו חי</a>
       <span style="opacity:.5;margin:0 8px">·</span>

diff --git a/demo-crm.html b/demo-crm.html
@@ -3,7 +3,7 @@
 <meta charset="UTF-8">
 <meta name="viewport" content="width=device-width,initial-scale=1">
 <title>דמו חי | מוקד בקרה — אוטומציה ו-CRM בפעולה | FlowOps AI</title>
-<meta name="description" content="דמו חי של מערכת אוטומציה ו-CRM של FlowOps: לידים נכנסים, מסתדרים אוטומטית ומתעדכנים בזמן אמת. ראו כמה זמן זה חוסך.">
+<meta name="description" content="דוגמה חיה למוקד בקרה של FlowOps: עובד דיגיטלי מטפל בלידים שנכנסים, הם מסתדרים אוטומטית ומתעדכנים בזמן אמת. ראו כמה זמן זה חוסך.">
 <meta property="og:title" content="דמו חי — אוטומציה ו-CRM בפעולה | FlowOps">
 <meta property="og:description" content="ראו מערכת שמטפלת בלידים אוטומטית בזמן אמת, חוסכת שעות ולא מפספסת אף פנייה.">
 <meta property="og:image" content="https://flowopsai.co.il/og-image-v2.jpg">